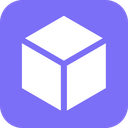
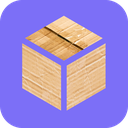
Add files via upload

diff --git a/index.html b/index.html
@@ -9,8 +9,8 @@
 <meta name="apple-mobile-web-app-title" content="Piksta">
 <meta name="description" content="Piksta — сканирование и сортировка посылок по трек-кодам">
 <link rel="manifest" href="/manifest.json">
-<link rel="apple-touch-icon" href="/icons/apple-touch-icon.png?v=3">
-<link rel="icon" type="image/x-icon" href="/favicon.ico?v=3">
+<link rel="apple-touch-icon" href="/icons/apple-touch-icon.png?v=4">
+<link rel="icon" type="image/x-icon" href="/favicon.ico?v=4">
 <title>Piksta — сканер посылок</title>
 <script src="https://unpkg.com/html5-qrcode@2.3.8/html5-qrcode.min.js"></script>
 <link rel="stylesheet" href="https://cdn.jsdelivr.net/npm/@tabler/icons-webfont@latest/tabler-icons.min.css">
